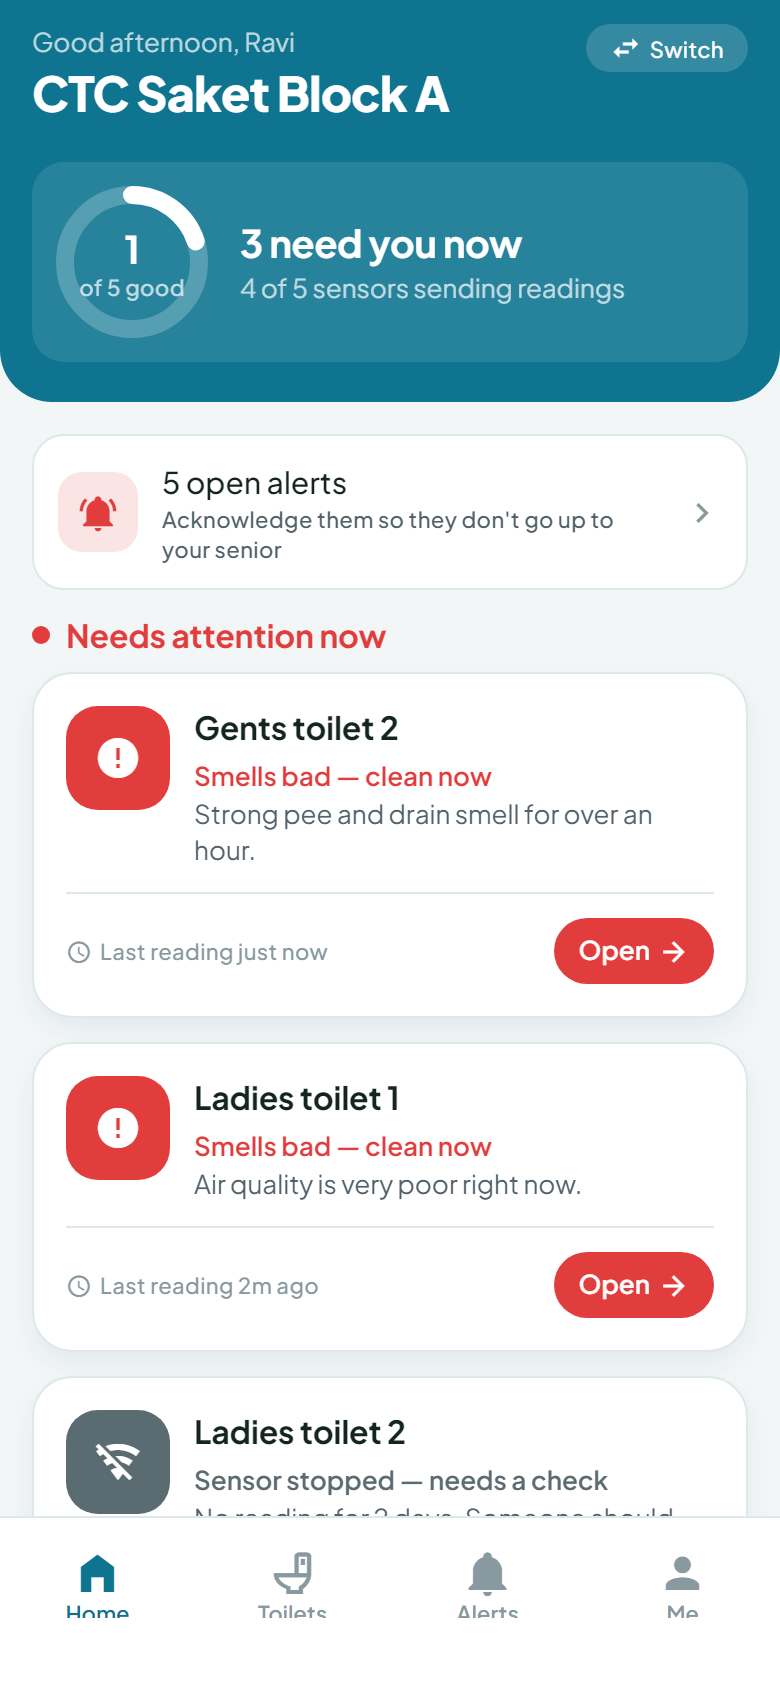
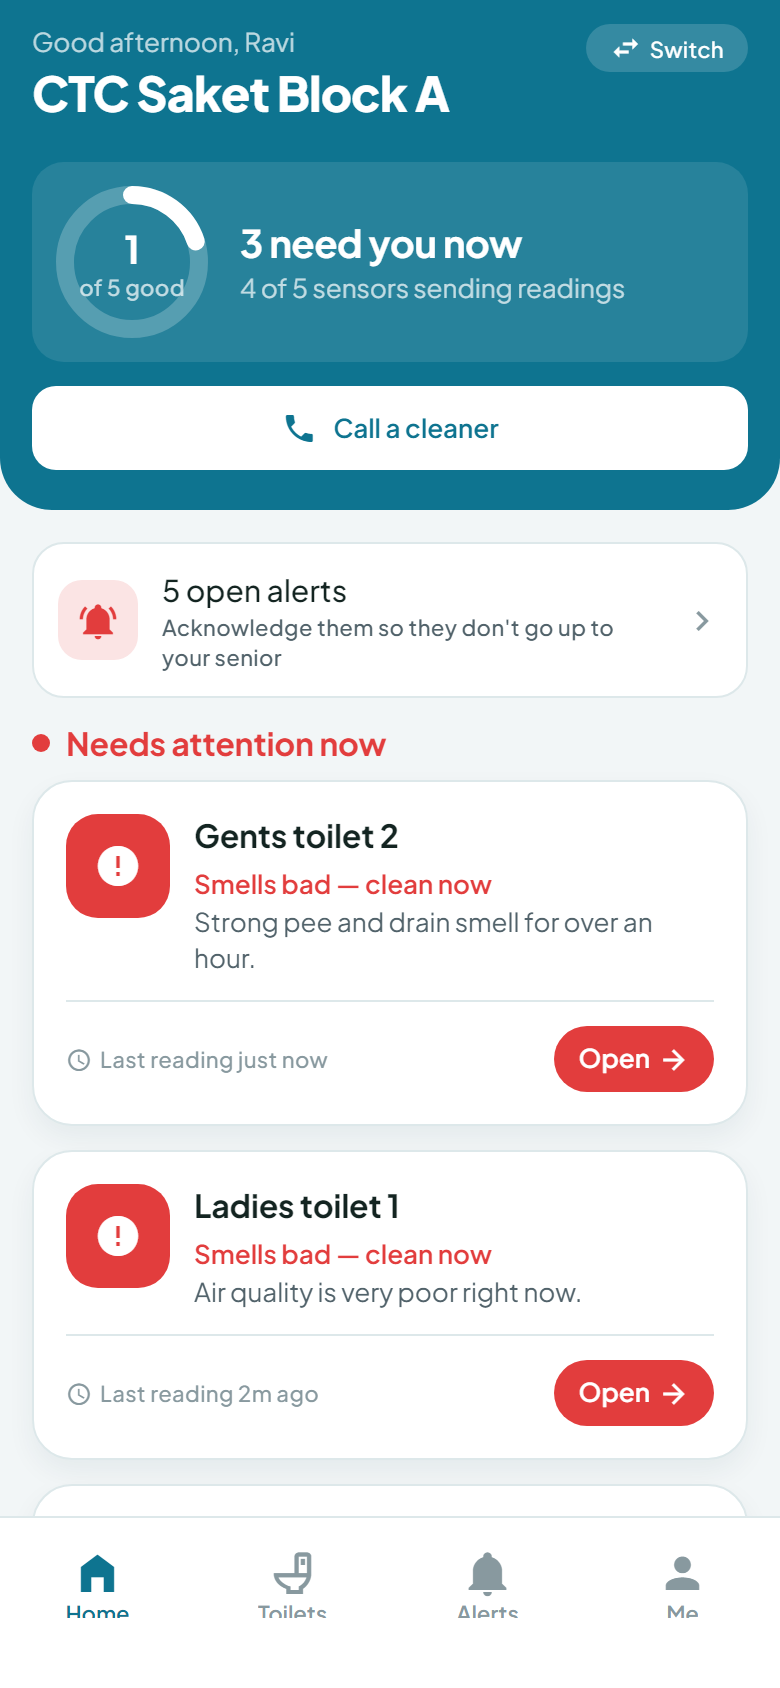
Add quick 'Call a cleaner' shortcut on Facility home

Changed region(s): [[0.0, 0.2156, 1.0, 0.6469], [0.0615, 0.6161, 0.9231, 0.9242]]

diff --git a/src/app/(facility)/index.tsx b/src/app/(facility)/index.tsx
@@ -53,6 +53,11 @@ export default function FacilityHome() {
               <Txt variant="small" color="rgba(255,255,255,0.72)" style={{ marginTop: 2 }}>{reporting} of {total} sensors sending readings</Txt>
             </View>
           </View>
+
+          <Pressable style={styles.callBtn} onPress={() => router.push('/staff')}>
+            <MaterialCommunityIcons name="phone" size={18} color={colors.primary} />
+            <Txt variant="label" color={colors.primary}>Call a cleaner</Txt>
+          </Pressable>
         </View>
 
         <View style={styles.body}>
@@ -93,6 +98,7 @@ const styles = StyleSheet.create({
   heroTop: { flexDirection: 'row', alignItems: 'flex-start' },
   switch: { flexDirection: 'row', alignItems: 'center', gap: spacing.xs, backgroundColor: 'rgba(255,255,255,0.16)', borderRadius: radius.pill, paddingHorizontal: spacing.md, paddingVertical: spacing.xs },
   statRow: { flexDirection: 'row', alignItems: 'center', gap: spacing.lg, marginTop: spacing.xl, backgroundColor: 'rgba(255,255,255,0.1)', borderRadius: radius.lg, padding: spacing.md },
+  callBtn: { flexDirection: 'row', alignItems: 'center', justifyContent: 'center', gap: spacing.sm, backgroundColor: '#FFFFFF', borderRadius: radius.md, paddingVertical: spacing.md, marginTop: spacing.md },
   body: { paddingHorizontal: spacing.lg, paddingTop: spacing.lg },
   alertBanner: { flexDirection: 'row', alignItems: 'center', gap: spacing.md, backgroundColor: colors.surface, borderWidth: 1, borderColor: colors.border, borderRadius: radius.lg, padding: spacing.md, marginBottom: spacing.md },
   bellWrap: { width: 40, height: 40, borderRadius: 12, backgroundColor: colors.actSoft, alignItems: 'center', justifyContent: 'center' },
